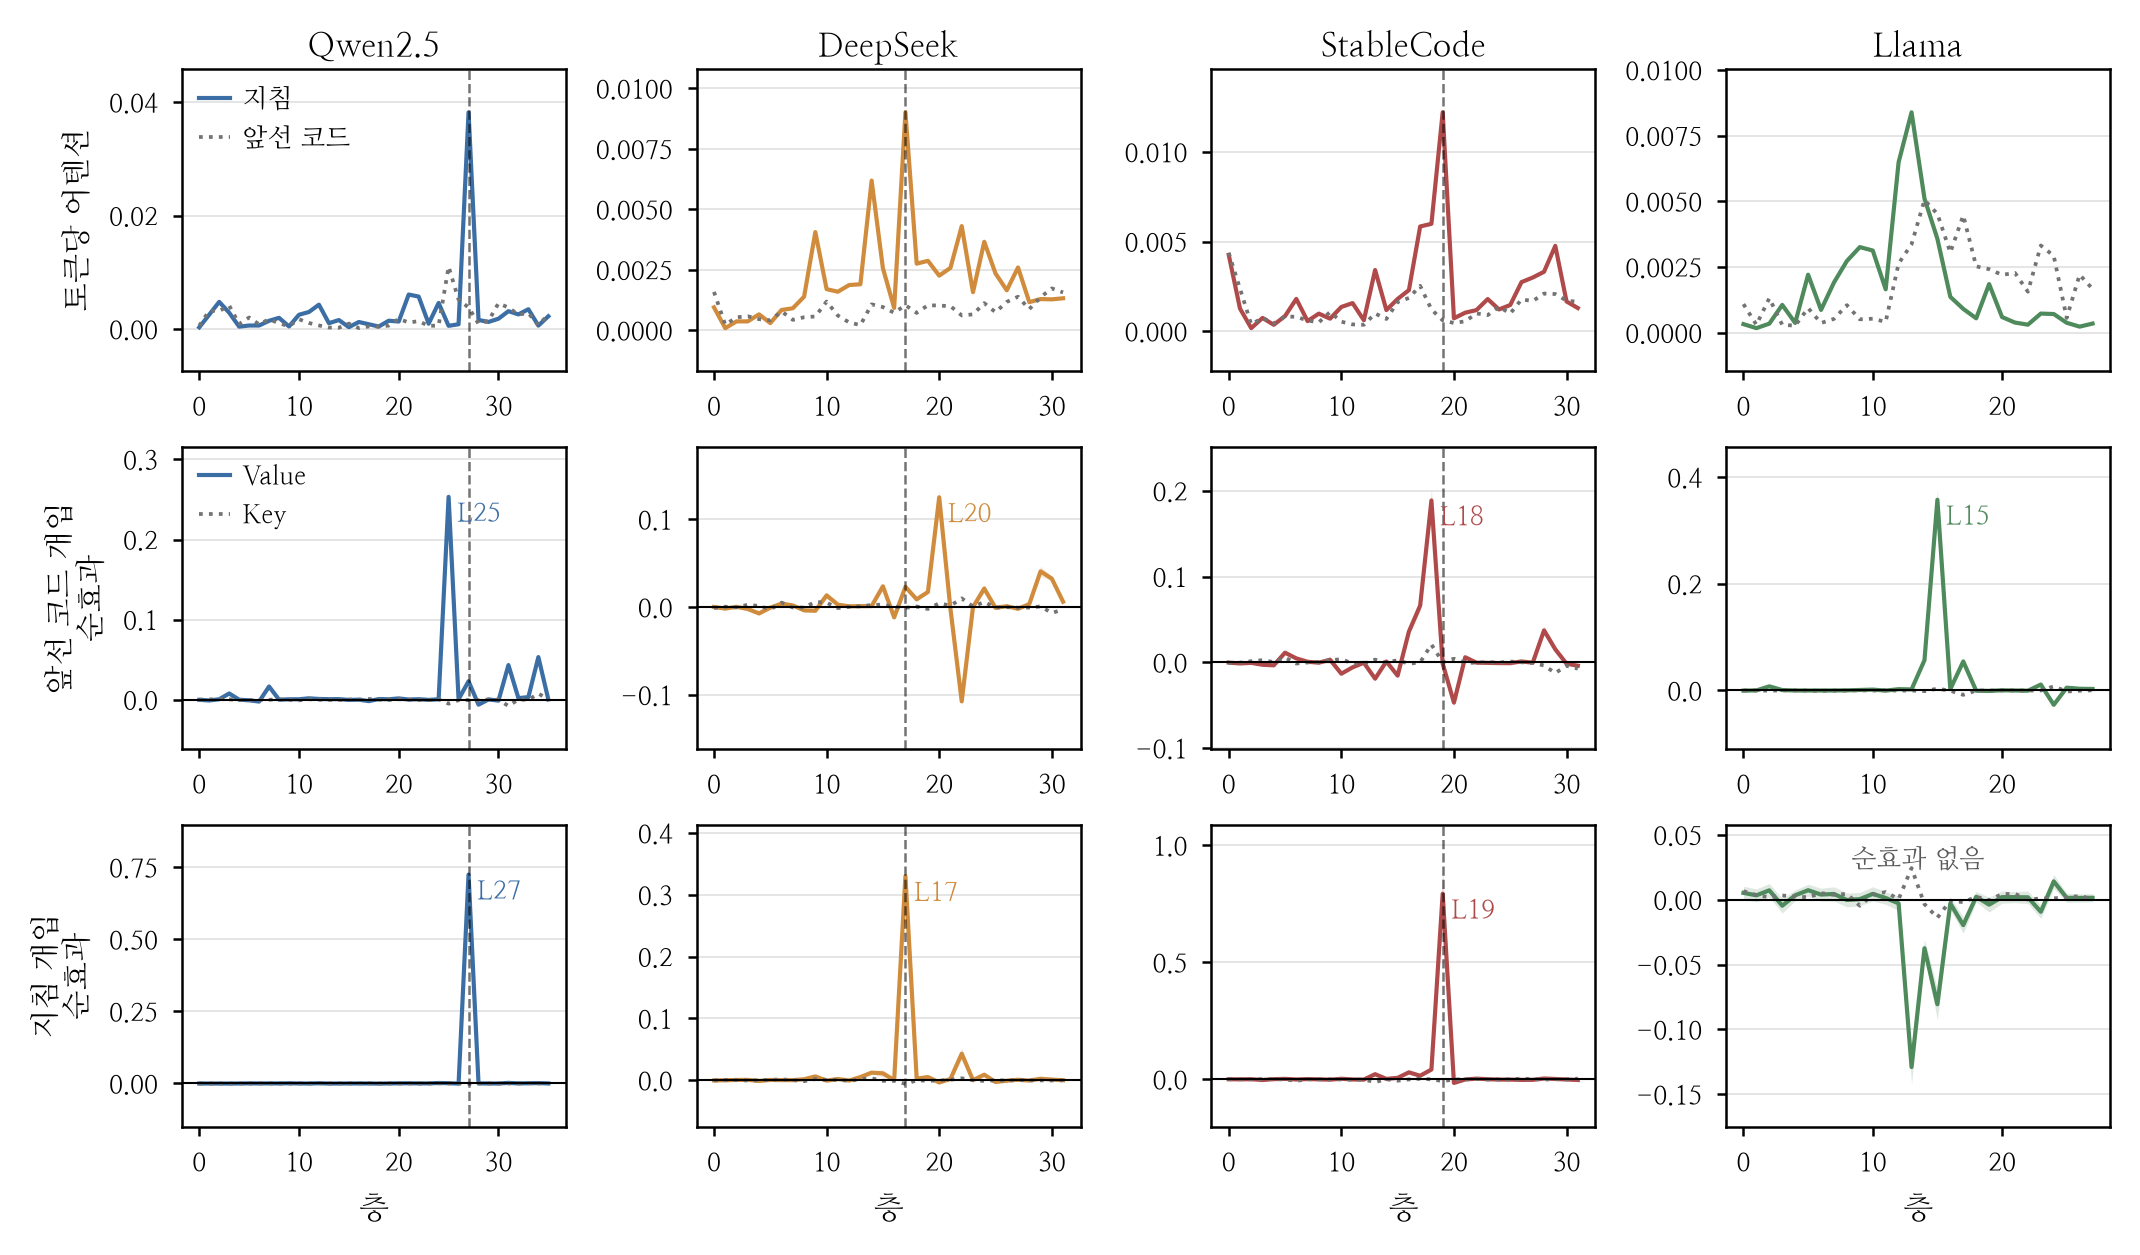
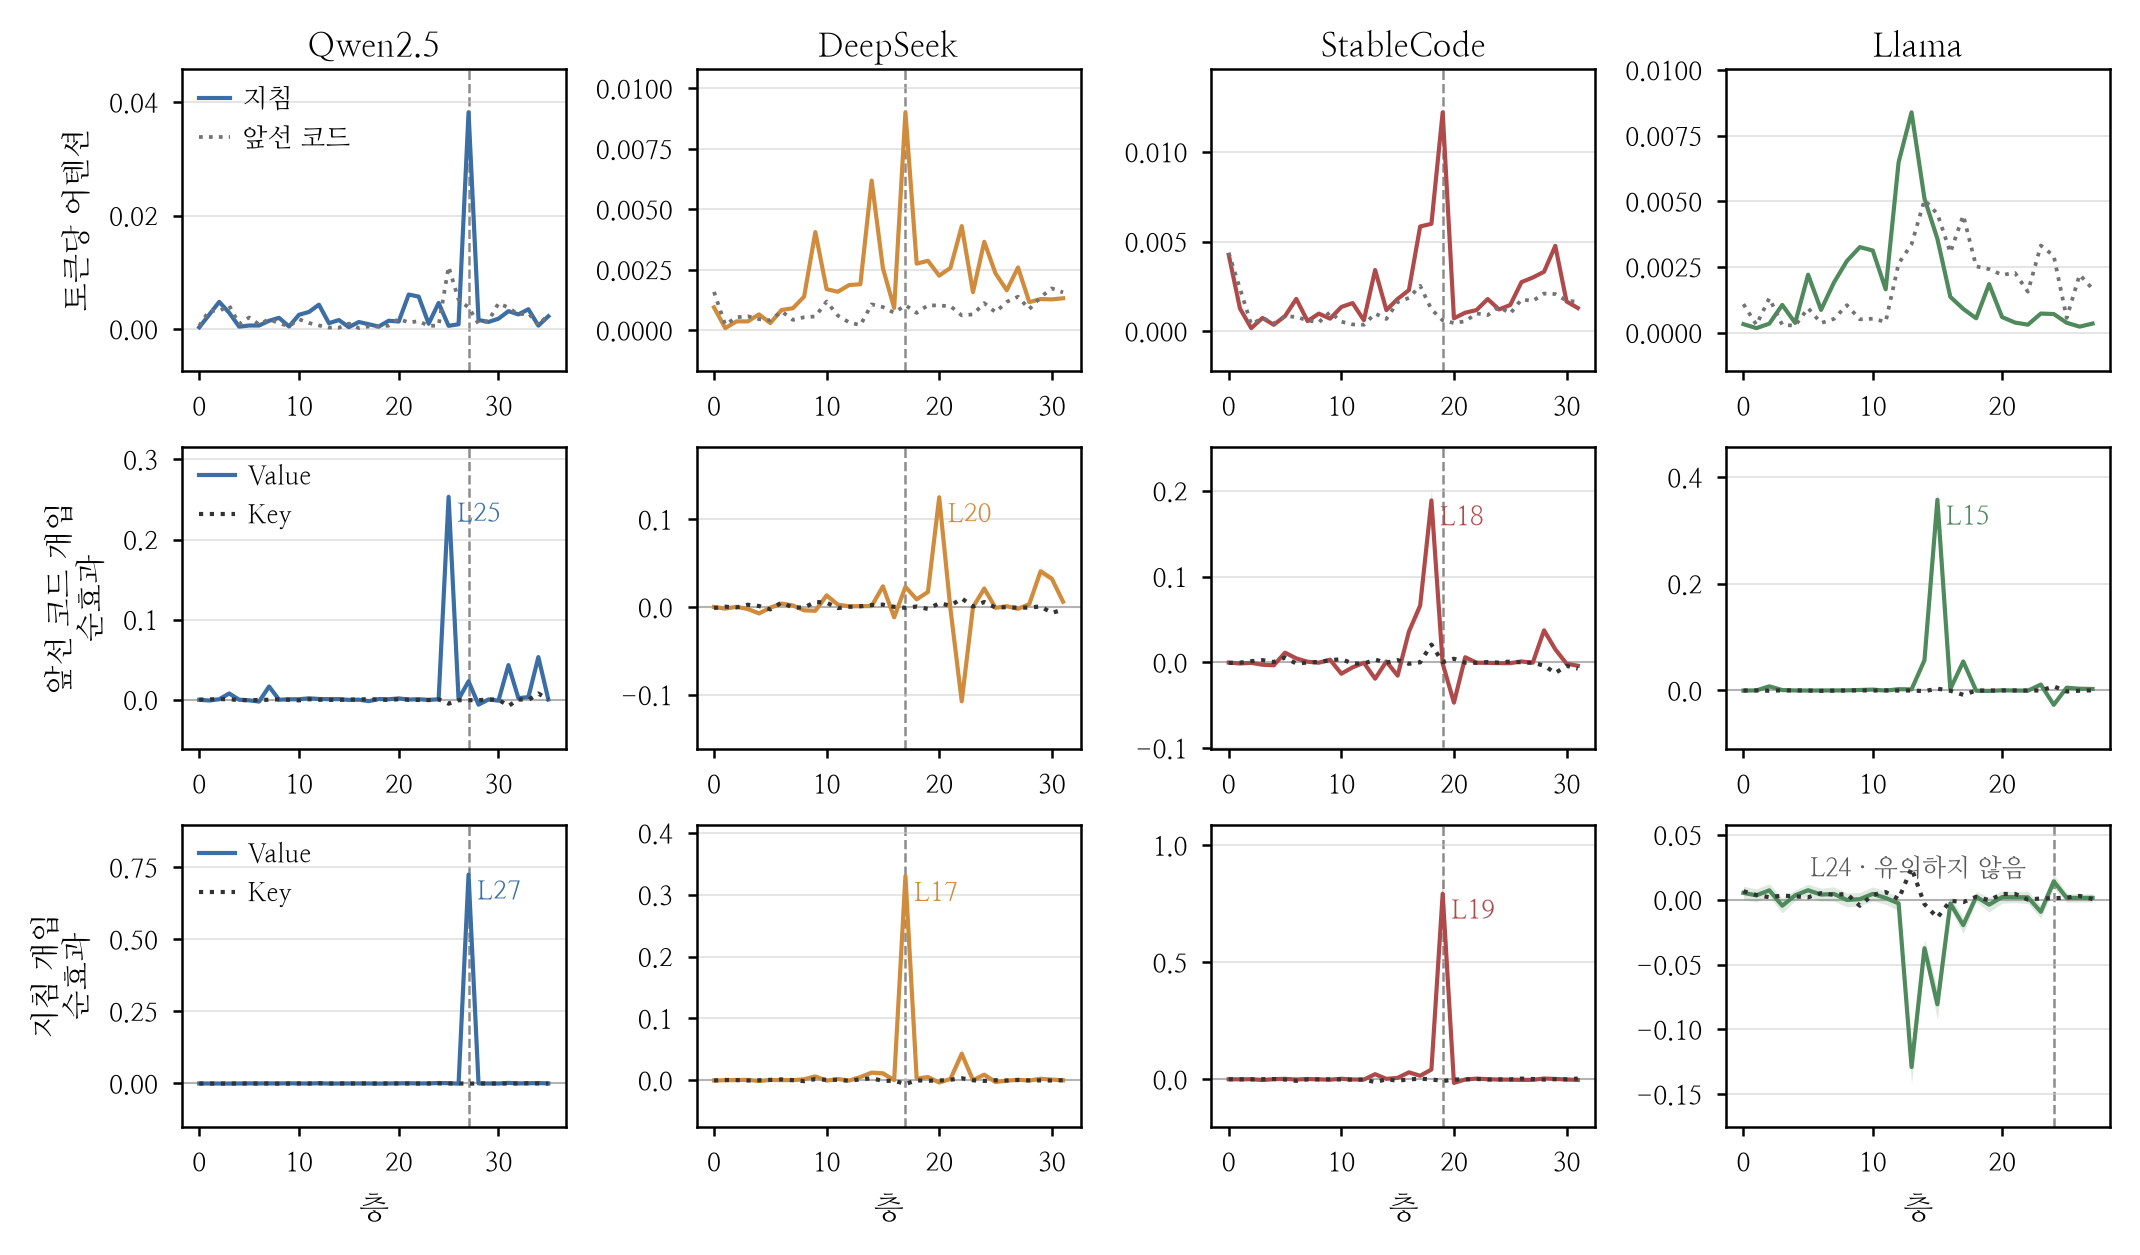
격자 그림 — Key 곡선을 0선 위로 올리고, 고른 층을 숨기지 않는다
Key는 값이 0 근처라 검은 0선 아래에 그리면 축선에 묻혀 보이지 않았다.
0선을 옅게 깔고 Key를 그 위에 올린다. 두 개입 행 모두에 범례를 단다.

순효과가 유의하지 않은 경우에도 어느 층을 골랐는지는 적는다.
Llama 지침 실험은 L24를 봉우리로 잡고 돌렸으나 그 값이 0.014라
유의하지 않다 — 회색 파선과 'L24 · 유의하지 않음'으로 표시한다.

diff --git a/scripts/paper_figures_ko.py b/scripts/paper_figures_ko.py
@@ -338,26 +338,32 @@ def fig_grid(out: Path):
                 ax.set_visible(False); continue
             cur = src[m]
             LL = cur["layers"]
-            ax.plot(LL, cur["value"], color=C[m], linewidth=1.0, label="Value")
-            ax.plot(LL, cur["key"], color="0.45", linewidth=0.9, linestyle=":", label="Key")
+            # 0선을 먼저 옅게 깔고, Key 곡선을 그 위에 올린다.
+            # Key는 값이 0 근처라 순서를 뒤집으면 축선에 묻혀 보이지 않는다.
+            ax.axhline(0, color="0.7", linewidth=0.5, zorder=1)
             lo = [v - c for v, c in zip(cur["value"], cur["value_ci"])]
             hi = [v + c for v, c in zip(cur["value"], cur["value_ci"])]
-            ax.fill_between(LL, lo, hi, color=C[m], alpha=0.18, linewidth=0)
-            ax.axhline(0, color="black", linewidth=0.5)
+            ax.fill_between(LL, lo, hi, color=C[m], alpha=0.18, linewidth=0, zorder=2)
+            ax.plot(LL, cur["value"], color=C[m], linewidth=1.0, label="Value", zorder=3)
+            ax.plot(LL, cur["key"], color="#333333", linewidth=1.0, linestyle=(0, (1, 1.6)),
+                    label="Key", zorder=4)
             k = _peak(cur)
             if k is not None:
                 ax.annotate(f"L{LL[k]}", xy=(LL[k], cur["value"][k]),
                             xytext=(2, -1), textcoords="offset points",
                             fontsize=6.2, color=C[m], va="top")
             else:
-                ax.text(0.5, 0.86, "순효과 없음", transform=ax.transAxes,
-                        fontsize=6.2, color="0.35", ha="center")
+                # 봉우리라 부를 값이 없어도 어느 층을 골랐는지는 숨기지 않는다
+                a_ = max(range(len(LL)), key=lambda i: cur["value"][i])
+                ax.axvline(LL[a_], color="0.55", linewidth=0.6, linestyle="--", zorder=0)
+                ax.text(0.5, 0.9, f"L{LL[a_]} · 유의하지 않음", transform=ax.transAxes,
+                        fontsize=6.0, color="0.35", ha="center", va="top")
 
         # 지침 개입이 먹히는 층을 세 판에 같은 자리로 긋는다
         if pk_layer is not None:
             for i in range(3):
                 axes[i][j].axvline(pk_layer, color="black", linewidth=0.6,
-                                   linestyle="--", alpha=0.55)
+                                   linestyle="--", alpha=0.45, zorder=0)
 
     for row in axes:
         for ax in row:
@@ -370,7 +376,9 @@ def fig_grid(out: Path):
                        ("토큰당 어텐션", "앞선 코드 개입\n순효과", "지침 개입\n순효과")):
         ax.set_ylabel(lab, fontsize=7.2)
     axes[0][0].legend(fontsize=6.2, loc="upper left", handlelength=1.2, borderaxespad=0.25)
-    axes[1][0].legend(fontsize=6.2, loc="upper left", handlelength=1.2, borderaxespad=0.25)
+    for i in (1, 2):
+        axes[i][0].legend(fontsize=6.2, loc="upper left", handlelength=1.4,
+                          borderaxespad=0.25)
     fig.tight_layout(pad=0.3, h_pad=0.7, w_pad=0.9)
     _save(fig, out, "ko_grid")
 
